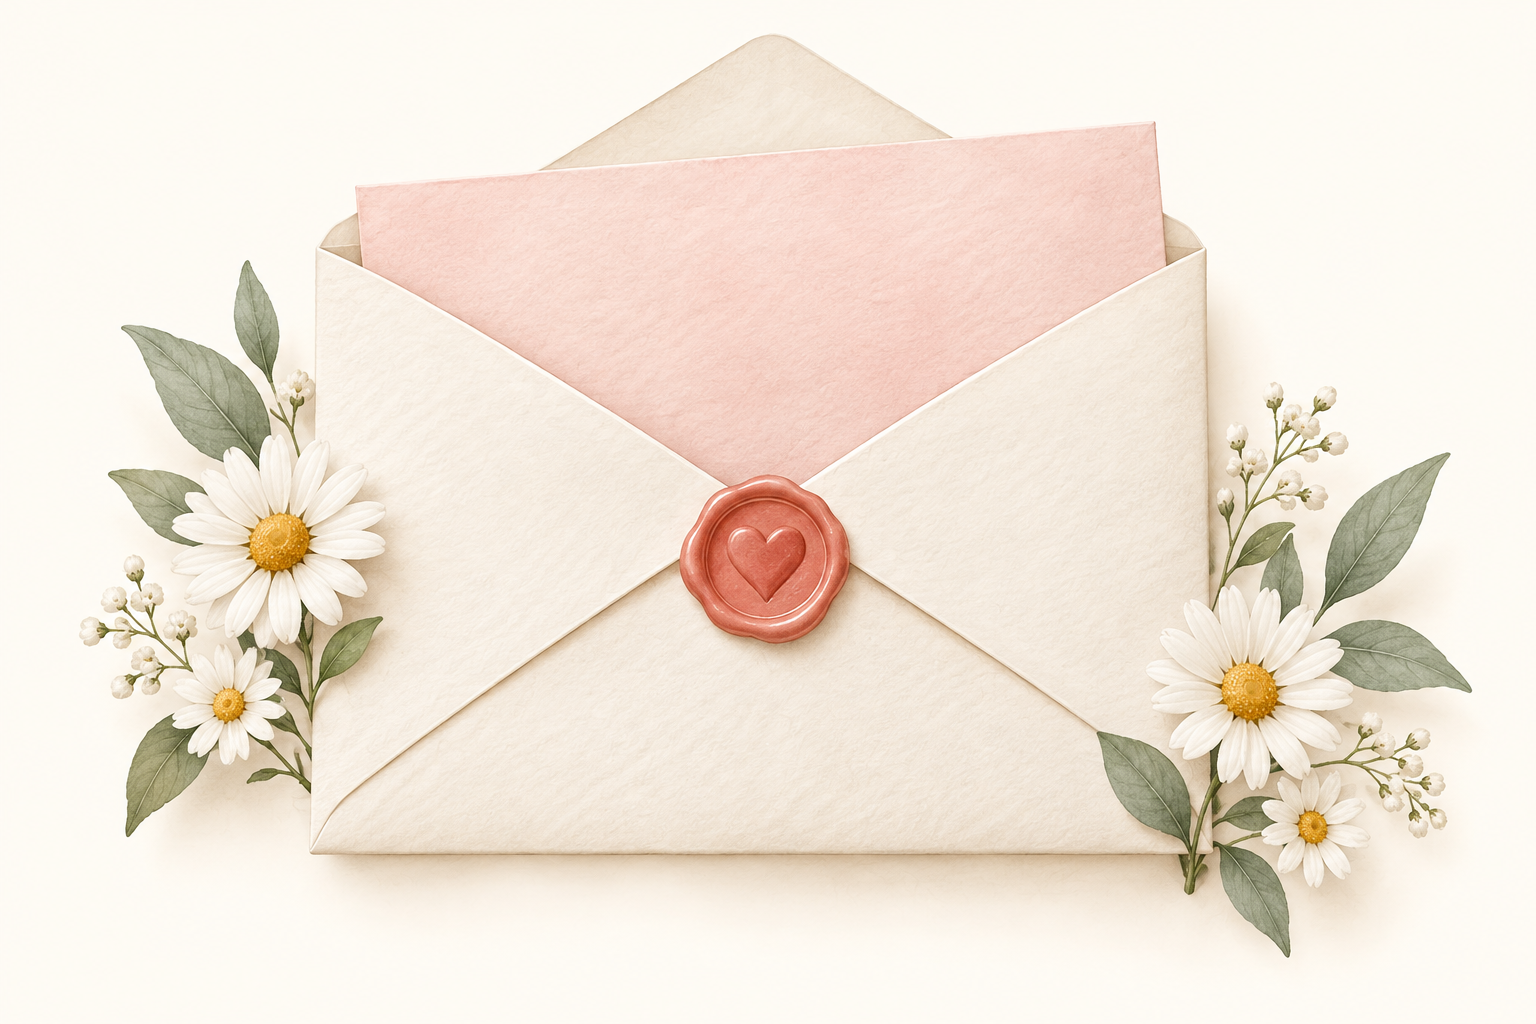
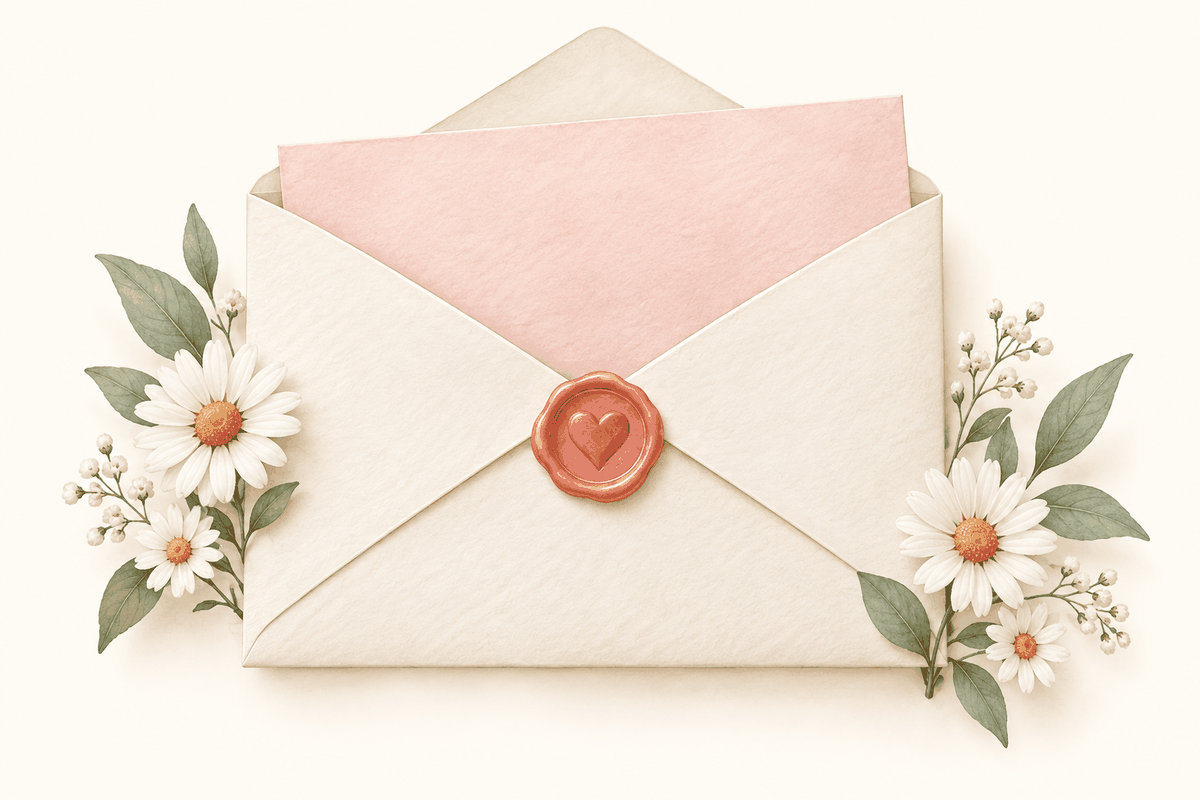
Shrink the heaviest images in place (about 12 MB to 3.7 MB)
- Quantize mascot/character atlases with alpha preserved, scale to 0.75
- Flatten the nearly opaque stationery atlas; downscale the envelope hero
- Compress the home OG card; make the nonsense share card 800x480 like the rest

diff --git a/test/nonsense.js b/test/nonsense.js
@@ -11,7 +11,7 @@ const input=(w,id,value)=>{const e=el(w,id);e.value=value;e.dispatchEvent(new w.
 (async()=>{
   const maker=open();
   const shareCard=fs.readFileSync(path.join(ROOT,'assets/share-cards/nonsense.png'));
-  assert.equal(shareCard.readUInt32BE(16),1672);assert.equal(shareCard.readUInt32BE(20),941);
+  assert.equal(shareCard.readUInt32BE(16),800);assert.equal(shareCard.readUInt32BE(20),480); /* 2026-09-12 다른 카드와 같은 800×480 으로 축소 */
   const bank=maker.NONSENSE_QUESTIONS;
   assert.equal(bank.length,100);
   assert.equal(new Set(bank.map(q=>q.id)).size,100);

diff --git a/HANDOFF.md b/HANDOFF.md
@@ -227,6 +227,27 @@
 - 카톡 인앱 브라우저 대응(분석 8번)은 검토 후 보류: 카카오 공유 SDK는 카톡 안에서 정상 동작하고, 푸시 버튼은 `supportsPush()`가 PushManager 없는 웹뷰에서 자동으로 숨기며, 복사는 모든 게임에 대체 경로가 있다. 편지의 외부 브라우저 열기는 답장 작성 흐름 전용이라 일반화할 이유가 없었다.
 - `npm test` 21개 묶음 통과.
 
+
+### 2026-09-12 나머지 개선 3묶음: 이미지 용량 줄이기
+
+- 주소는 그대로 두고 파일만 바꿨다(원본은 git 이력 `dd2a8da` 이전에 있음). PIL로 256색 양자화(디더링), 필요하면 축소.
+  - `assets/art/catalog-mascots.png` 2.83MB → 1.29MB (0.75배 665×1330, 알파 16단계 유지). 이 그림은 캐릭터 바깥도 반투명 얼룩이 깔린 원본이라 알파를 버리면 안 된다. FASTOCTREE로 RGBA를 한 번에 양자화하면 알파가 뭉개져 얼룩이 진하게 드러나므로 RGB만 양자화하고 알파는 따로 붙였다.
+  - `assets/art/game-characters.png` 1.50MB → 0.68MB (같은 방식).
+  - `assets/art/stationery-atlas.png` 2.90MB → 0.29MB. 알파가 206~251로 거의 불투명해서 RGB로 평탄화했다.
+  - `assets/art/envelope-hero.png` 1.91MB → 0.60MB (1200×800으로 축소). 홈 첫 화면의 가장 큰 이미지.
+  - `og/og-home-v2.png` 1.02MB → 0.50MB. `assets/share-cards/nonsense.png` 2.08MB → 0.25MB (다른 카드와 같은 800×480으로 축소; `test/nonsense.js` 기대 크기 수정).
+  - `home-share-v2-bg.png`(2.1MB)는 공유 카드 생성용 원본이라 페이지에서 쓰지 않아 그대로 뒀다.
+- 확인: 양자화한 마스코트·편지지 이미지를 눈으로 확인했다. 카카오 캐시는 URL 기준이라 `og-home-v2.png?v=20260910`은 예전 카드가 한동안 보일 수 있다(문제 시 `?v=`만 올리면 됨).
+- `npm test` 21개 묶음 통과.
+
+### 이번에 손대지 않은 분석 항목과 이유
+
+- 내기 수락/거절(9번), 내 기록 보기(12번): 새 화면과 링크 형식 변경이 필요한 기능이라 시안 승인 뒤 진행.
+- 공통 코드 통합(14번): 9개 게임의 인라인 코드를 duel-engine으로 옮기는 큰 리팩터링. 이제 `test/smoke.js`와 `test/asset-versions.js`가 안전망이 되니 다음 작업으로 적합하다.
+- 링크 형식 버전 검사(17번): 링크 형식을 바꿀 일이 생길 때 함께 처리.
+- 오프라인 캐시(PWA fetch 핸들러): 정적 자산 캐시가 오히려 '옛 모듈과 새 화면이 섞이는' 사고를 키울 수 있어 보류.
+- 카카오 메시지 앱 이름 '같이해봐'(10번): 카카오 개발자 콘솔에서 사용자가 직접 바꿔야 한다.
+
 ## 테스트·배포 확인
 
 - 실행: `npm install` 후 `npm test` (현재 환경에는 의존성 설치됨).
